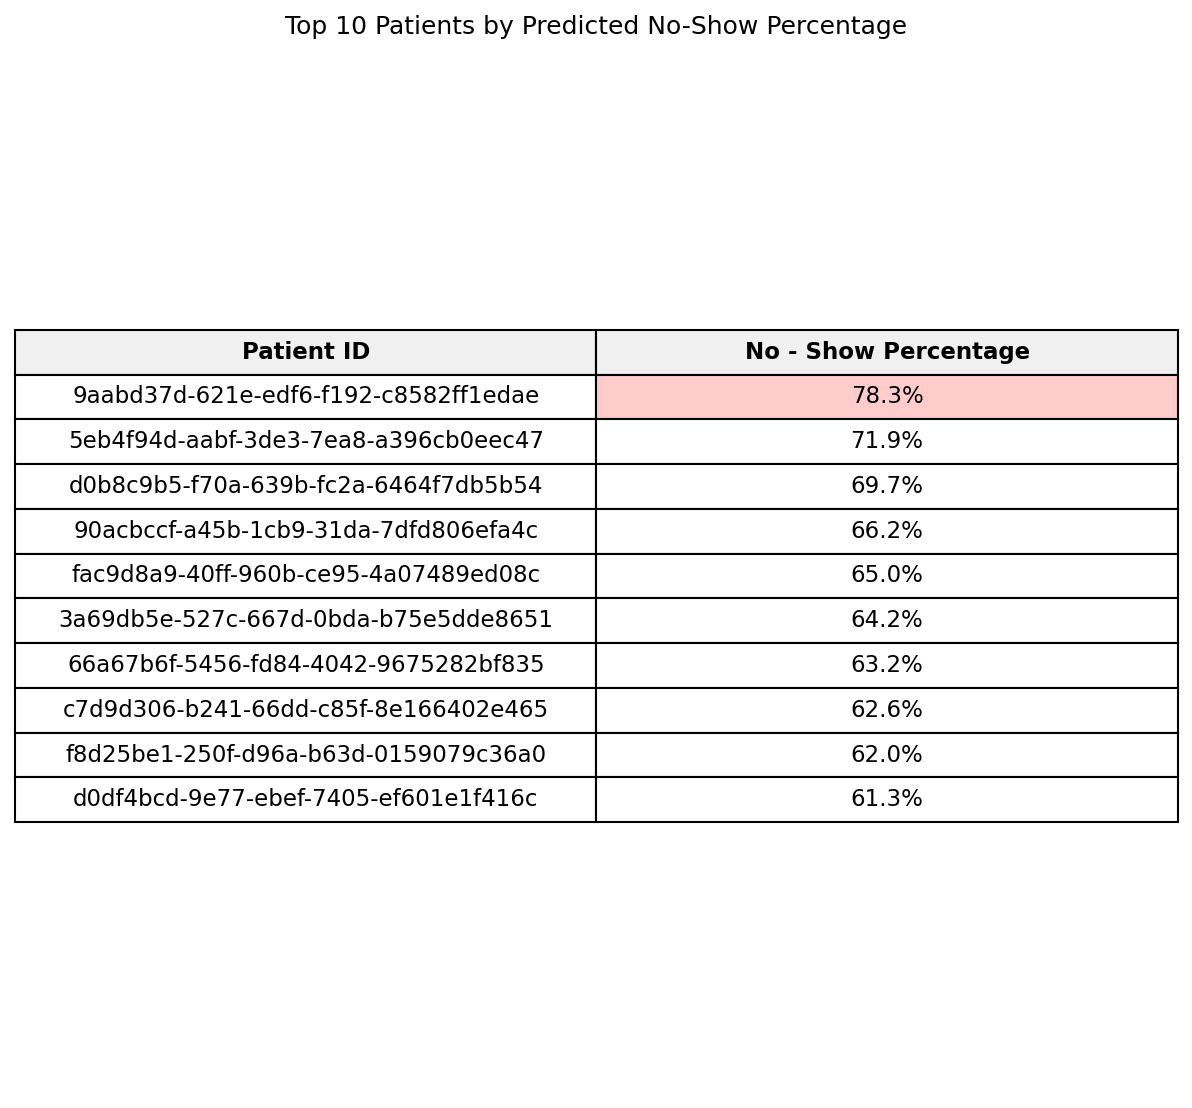
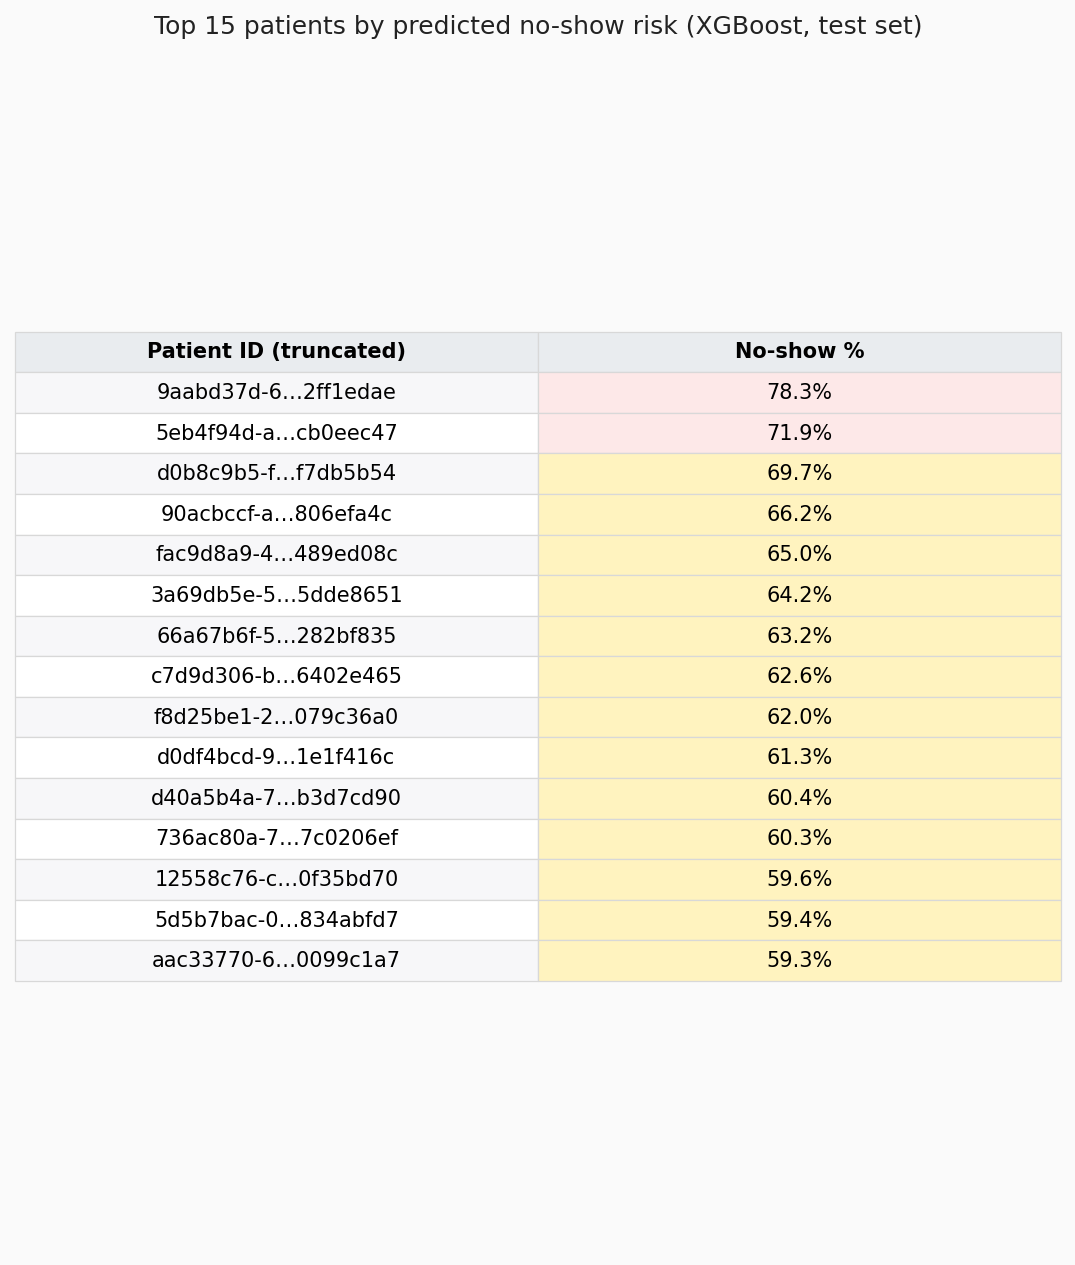
updates

Changed region(s): [[0.0, 0.2455, 1.0, 0.7978], [0.1535, 0.0, 0.8595, 0.0307]]

diff --git a/src/run_benchmark_csv.py b/src/run_benchmark_csv.py
@@ -285,7 +285,8 @@ results = []
 # Logistic Regression (L2)
 logreg = Pipeline([
     ("prep", preprocess),
-    ("clf", LogisticRegression(max_iter=2000, class_weight=None, solver="lbfgs", random_state=SEED)),
+    ("clf", LogisticRegression(
+        max_iter=2000, class_weight="balanced", solver="lbfgs", random_state=SEED)),
 ])
 results.append(evaluate_model("logistic_regression", logreg, X_train, X_test, y_train, y_test))
 
@@ -294,7 +295,7 @@ elastic = Pipeline([
     ("prep", preprocess),
     ("clf", LogisticRegression(
         penalty="elasticnet", l1_ratio=0.5, solver="saga",
-        max_iter=5000, class_weight=None, random_state=SEED)),
+        max_iter=5000, class_weight="balanced", random_state=SEED)),
 ])
 results.append(evaluate_model("elastic_net_logistic", elastic, X_train, X_test, y_train, y_test))
 
@@ -326,9 +327,6 @@ else:
 # -------------------------
 metrics_df = pd.DataFrame(results)
 metrics_csv = METRICS_DIR / "metrics.csv"
-if metrics_csv.exists():
-    old = pd.read_csv(metrics_csv)
-    metrics_df = pd.concat([old, metrics_df], ignore_index=True)
 metrics_df.to_csv(metrics_csv, index=False)
 print(f"Saved metrics to: {metrics_csv}")
 
@@ -379,10 +377,12 @@ try:
     ax1 = fig.add_subplot(gs[0, 0])
     df1 = plot_dfs["auc_roc"]
     model_labels = [format_model_name(m) for m in df1["model"]]
-    ax1.bar(model_labels, df1["auc_roc"], color="black", width=0.6)
+    x1 = np.arange(len(df1))
+    ax1.bar(x1, df1["auc_roc"], color="black", width=0.6)
     ax1.set_title("ROC AUC (Receiver Operating Characteristic Area Under Curve)", fontsize=7, fontweight="bold")
     ax1.set_ylabel("ROC AUC", fontsize=9)
     ax1.set_ylim(0.0, 1.0)
+    ax1.set_xticks(x1)
     ax1.set_xticklabels(model_labels, rotation=0, ha="center", fontsize=4)
     ax1.grid(axis="y", alpha=0.3, linestyle="--")
 
@@ -390,10 +390,12 @@ try:
     ax2 = fig.add_subplot(gs[1, 0])
     df2 = plot_dfs["brier"]
     model_labels2 = [format_model_name(m) for m in df2["model"]]
-    ax2.bar(model_labels2, df2["brier"], color="black", width=0.6)
+    x2 = np.arange(len(df2))
+    ax2.bar(x2, df2["brier"], color="black", width=0.6)
     ax2.set_title("Brier Score (lower is better)", fontsize=7, fontweight="bold")
     ax2.set_ylabel("Brier Score", fontsize=9)
     ax2.set_ylim(0.0, 1.0)
+    ax2.set_xticks(x2)
     ax2.set_xticklabels(model_labels2, rotation=0, ha="center", fontsize=4)
     ax2.grid(axis="y", alpha=0.3, linestyle="--")
 
@@ -462,36 +464,58 @@ try:
                 df_pred.groupby("patient_id", as_index=False)["no_show_percent"].max()
             )
             # Top N patients
-            TOP_N = 10
+            TOP_N = 15
             top = per_patient.sort_values("no_show_percent", ascending=False).head(TOP_N)
 
-            # Prepare table data
+            def _short_id(pid: str) -> str:
+                s = str(pid)
+                if len(s) <= 24:
+                    return s
+                return f"{s[:10]}…{s[-8:]}"
+
+            # Prepare table data (truncated IDs for readability; full ID remains in CSV export)
             y_labels = top["patient_id"].astype(str).tolist()
             x_vals = top["no_show_percent"].tolist()
-            table_rows = [[str(pid), f"{val:.1f}%"] for pid, val in zip(y_labels, x_vals)]
-            table_data = [["Patient ID", "No - Show Percentage"]] + table_rows
+            table_rows = [
+                [_short_id(pid), f"{val:.1f}%"] for pid, val in zip(y_labels, x_vals)
+            ]
+            table_data = [["Patient ID (truncated)", "No-show %"]] + table_rows
 
-            # Table-only figure
-            fig_height = max(4.0, 0.6 * len(top) + 1.5)
-            fig, ax_tbl = plt.subplots(figsize=(8, fig_height))
+            # Table-only figure — light borders, zebra rows; % cell: yellow if >50, red if ≥70
+            fig_height = max(4.5, 0.45 * len(top) + 1.8)
+            fig, ax_tbl = plt.subplots(figsize=(7.2, fig_height))
+            fig.patch.set_facecolor("#fafafa")
             ax_tbl.axis("off")
             tbl = ax_tbl.table(cellText=table_data, cellLoc="center", loc="center")
             tbl.auto_set_font_size(False)
-            tbl.set_fontsize(11)
-            tbl.scale(1.2, 1.5)
+            tbl.set_fontsize(10)
+            tbl.scale(1.15, 1.35)
 
-            # Header bold + light gray background
-            for j in range(2):
-                tbl[(0, j)].set_text_props(weight="bold")
-                tbl[(0, j)].set_facecolor("#f0f0f0")
+            for (row, col), cell in tbl.get_celld().items():
+                cell.set_edgecolor("#d8d8d8")
+                cell.set_linewidth(0.6)
+                if row == 0:
+                    cell.set_text_props(weight="bold")
+                    cell.set_facecolor("#e9ecef")
+                    continue
+                if col == 0:
+                    cell.set_facecolor("#f7f7f9" if row % 2 == 1 else "#ffffff")
+                else:
+                    base = "#f0f7ff" if row % 2 == 1 else "#ffffff"
+                    cell.set_facecolor(base)
+                if col == 1 and row > 0:
+                    val = x_vals[row - 1]
+                    if val >= 70:
+                        cell.set_facecolor("#fde8e8")
+                    elif val > 50:
+                        cell.set_facecolor("#fff3bf")
 
-            # Color percentage cells light red when >= 75%
-            for i, val in enumerate(x_vals, start=1):
-                if val >= 75:
-                    tbl[(i, 1)].set_facecolor("#ffcccc")
-
-            # Title above table
-            ax_tbl.set_title("Top 10 Patients by Predicted No-Show Percentage", fontsize=12, pad=12)
+            ax_tbl.set_title(
+                f"Top {TOP_N} patients by predicted no-show risk (XGBoost, test set)",
+                fontsize=12,
+                pad=14,
+                color="#222222",
+            )
 
             fig.tight_layout()
             out_png = METRICS_DIR / "top_no_show_patients.png"

diff --git a/README.MD b/README.MD
@@ -19,8 +19,6 @@ In order to aid in this process, different AI tools where used to clean, debug, 
 
 
 ## Newest updates
-Small labelling error, led to misleading metrics. Recall that all no-shows are synthetically generated.
+Small labelling error led to misleading metrics. Recall that all no-shows are synthetically generated.
 
-Furthermore, there is a large calibration error in logistic and elastic net classifiers. Current fix is to add the class weights, orignally there to ensure representation from the less repesented class (no_shows). Our probabibilities and metrics should now read more true.
-
-Overview_auc_roc_auprc.png has not been updated
+Furthermore, there is a large calibration error in logistic and elastic net classifiers. Current fix is to add the class weights, orignally there to ensure representation from the less repesented class (no_shows). Our probabibilities and metrics should now read more true and at first glance are a lot more resonable.
